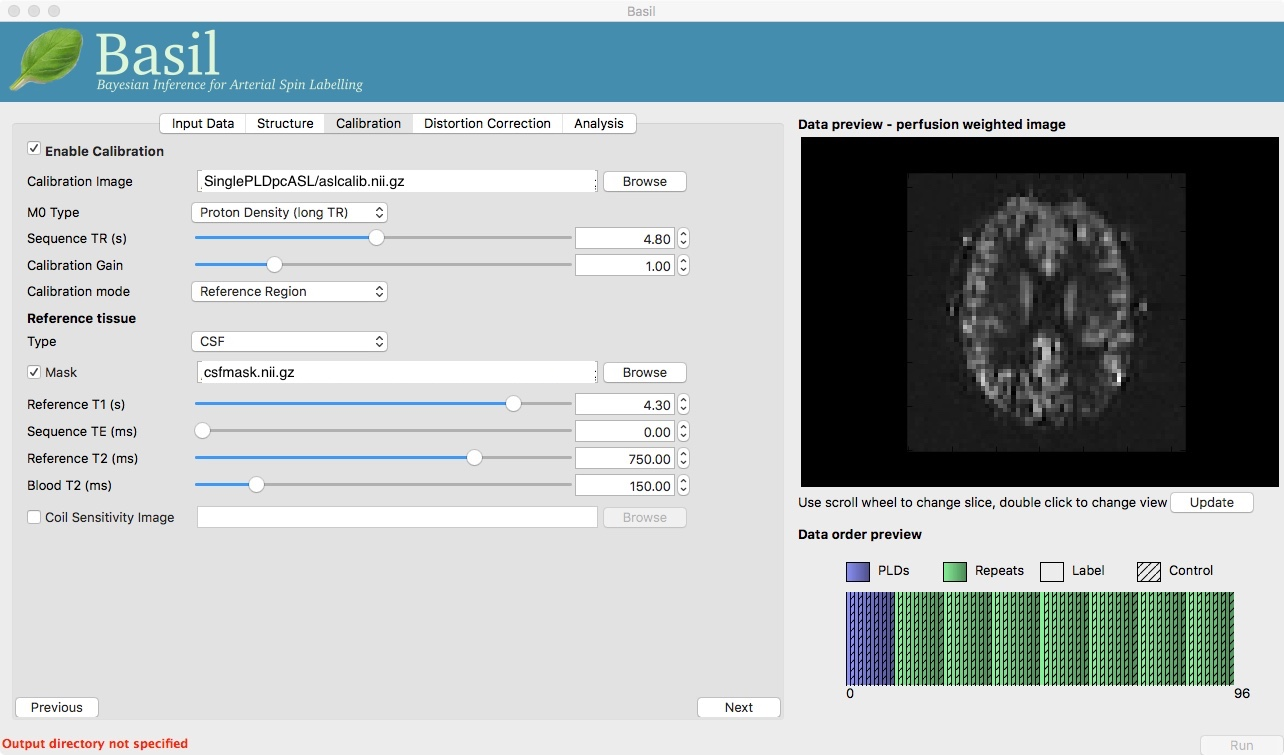
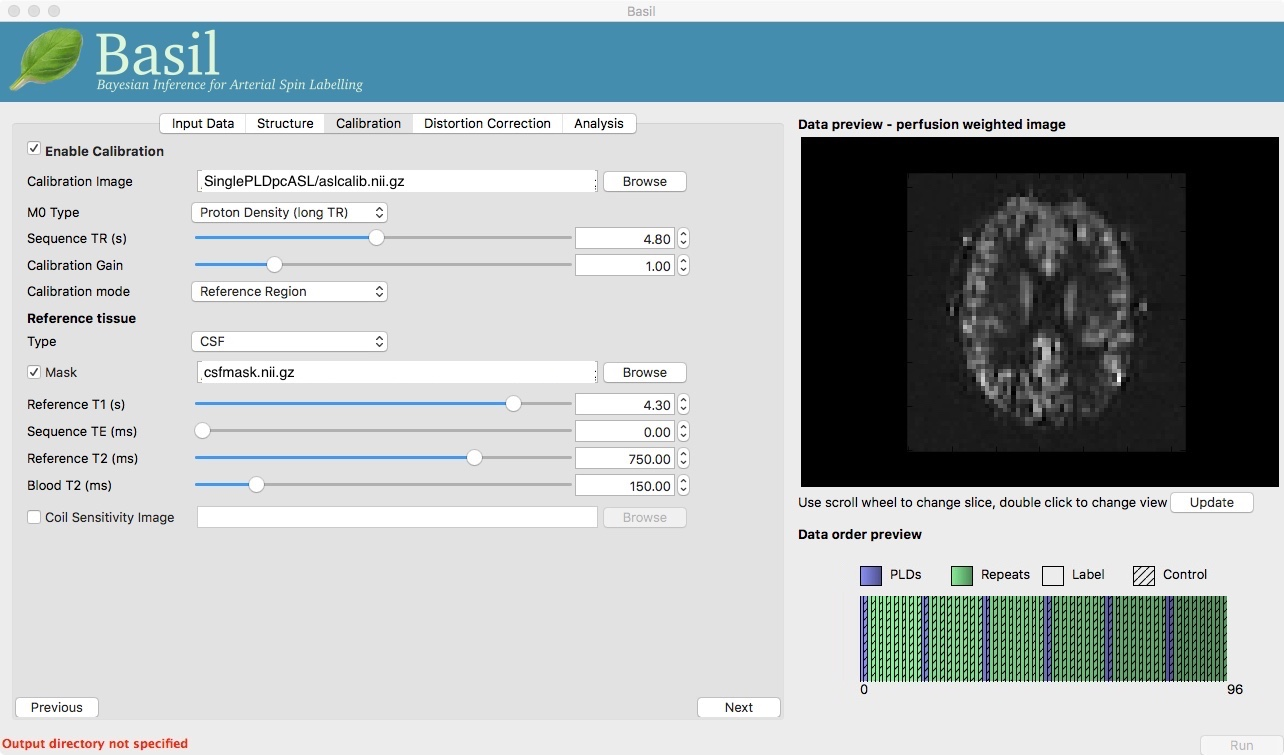
Adding in a new section on data ordering in multi-PLD ASL, revision of exercise 3 to make simply the handling of data orrdering.

Changed region(s): [[0.6542, 0.7311, 0.9657, 0.9139]]

diff --git a/index.html b/index.html
@@ -77,6 +77,10 @@ Multi-PLD pcASL</a></dt>
   <dd>Doing an even better job of perfusion quantification using
     multi-PLD pcASL and exploring other information that can be
     obtained with multi-PLD ASL.</dd>
+
+    <dt> <a href="#dataorder">4: Understanding data order for Multi-PLD
+      ASL</a></dt>
+      
 </dl>
 
 
@@ -542,38 +546,29 @@ ATT in its own right, as well as arterial blood volumes.</p>
 
   <img src="Input2.jpeg" alt="BASIL GUI Input Data" width=900>
 
-  <p>Note the 'Data order preview'. For mutli-PLD ASL it is important
+  <p>For mutli-PLD ASL it is important
   to get the data order specification right. In this case the default
-  options in the GUI are not correct. The PLDs do come as label-control
-  pairs, i.e. alternating label then control images. But, the default
-  assumption in the GUI is that a full set of the
+  options in the GUI are <b>not</b> correct. Specifically, although the PLDs do come as label-control
+  pairs, i.e. alternating label then control images, the default
+  assumption made by the GUI that a full set of the
   6 PLDs has been acquired first, then this has been repeated 8
-  subseqeunt times, this is indcated in the preview by colouring the
-  first instance of a PLD as purple and subsequent as green, with
-  different PLDs appearing as different shades of purple (or
-  green). This is quite commonly how multi-PLD ASL data is acquired,
-  but that might not be how the data is ordered in the final image
-  file.</p>
+  subseqeunt times isn't true for the data as provided. Instead the
+  data has been ordered with all of the measurements at the first PLD
+  grouped together first, then all of the second PLD, then the third
+  etc. To tell the GUI this we need to change the 'Grouping order':
+  leave the first option as it is ('Label/Control pairs'), but change
+  the second option to 'Repeats' (from 'PLDs'). You should notice that
+  the 'Data order preview' in the lower right hand corner will
+  change. This is a visual guide to help you check that BASIL is
+  intepreting the data in the way you think it should. You can learn
+  more about this in exercise 4.</p>
 
-  <p>As we noted earlier, in this data all of the measurements at the
-  same PLD are grouped together. You need to change the 'Grouping
-  order' on the 'Input Data' tab: leave the first option along
-  ('Label/Control pairs') and change the second option from 'PLDs' to
-  'Repeats'. Note that the data order preview changes to reflect the
-  different ordering. This is now correct: remeber that the purple
-  coloured entries indicate the first time that PLD was acquired.</p>
 
-  <p>Note that if you were to click 'Update' on the 'Data preview' nothing
+  <p>Note that if you were to click 'Update' again on the 'Data preview' nothing
   changes, the ordering doesn't affect the (simple) way in which we
   have calucated the PWI. Getting a plausible looking PWI is a good sign that the data
   order is correct, but it is not a guarantee that the PLD ordering is
-  correct, so always check carefully. One way to do this, in this
-  case, would be to open the data in <code>fsleyes</code> and look at
-  the timeseries: the raw intensity of both label and control images
-  for one PLD are different to those from another PLD (due to the
-  background suprresion). THe timeseries for the raw data looks like a
-  series of steps, indicating the repeated measurements from each PLD
-  are grouped together (groubed by 'repeats').</p>
+  correct, so always check carefully. </p>
 
 <list>Once we are happy with the PWI and data order, we can set the
 'Acquisition parameters':
@@ -676,6 +671,200 @@ estimated maps for the arterial component
 (<code>aCBV_calib.nii.gz</code> etc) are still present in the
 <code>pvcorr</code> directory. Since this is not tissue specific there
 are not separate gray and white matter versions of this parameter.</p>
+
+<hr/>
+
+<h2><a name="dataorder">Understanding data order for Multi-PLD
+ASL</a></h2>
+
+<p>In exercise 3 we noted that it is important to get the data
+ordering correct when you have multi-PLD data. This is becuase when it
+comes to model fitting BASIL needs to know which volumes correspond to
+which PLD, otherwise the quantification will be wrong.</p>
+
+<p>There are two essential things you need to know about your
+data:</p>
+<list>
+<li>Do the label and control images appear as pairs, i.e., the data
+goes label then control then label then control etc? This is how ASL
+data is conventionally aquired, so it is highly likely that this will
+be the case. You should also note whether it is label first (most
+common) or control first.</li>
+<li>Do you have multiple <b>repeats</b>, i.e., is there more than one
+measurement at each PLD. Is that is the case then are all of the volumes corresponding to an individual PLD grouped
+together, or do you get one group of measurement made at all of the
+PLDs, followed by another group, i.e., a <b>repeat</b> of the PLDs,
+then another group etc? The latter is the most common way to acquire
+multi-PLD data, but it is possible the data has been grouped
+differently before you get it (as was the case for the data in
+exercise 3).</li>
+</list>
+
+<p>The BASIL GUI provides a way to indicate the ordering in the data,
+'Grouping order',
+and a graphic to help you visualise what the options mean, 'Data order
+preview'.</p>
+
+<p>Starting with the simplest case: a single PLD repeated a number of
+times (i.e., exercise 1 and 2). The data order preview has a series of 60 boxes
+(30 pairs of label and control) corresponding to the 60 volumes in the
+data. These alternate between solid colour
+and cross-hatched. As the legend indicates a label image volume is
+shown solid and a control is cross-hatched, they alternate in the
+preview becuase the data comes in label control pairs.</p>
+
+<img src="Dataorder1.jpeg" alt="Data ordering with a single PLD">
+
+<p>You will also notice that the first two boxes are purple, the rest
+are green. The purple colour indicates the <b>first</b> occurence of a
+PLD in the series. As we only have a single PLD in this data it is the
+first two volumes that correspond to the label and control images for
+the first occurence of the PLD. The rest of the boxes are green
+because these represent <b>repeats</b> of the same PLD.</p>
+
+<p>Now lets understand what happens with multi-PLD data. As per the
+case in exercise 3, we have data with 6 different PLDs, each of which
+have been measured 8 times. The default options for the BASIL GUI look
+like this:</p>
+
+<p>You should be able to spot the alternating pairs of label and
+control images. We have a total of 96 boxes (corespding to the 96 volumes for this data).
+The first 12 are all purple indicating that these volumes contain the
+first occurence of each of the 6 different PLDs (as pairs of label and
+control). Note that the different PLD are shaded - the boxes get
+progrssively darker to remin you that these are different PLD. You
+will then spot that the next 12 boxes are green, these are the second
+occurence of the PLDs. Again the shading gets darker to show that each
+pair is a different PLD. In fact, all of the subsequent boxes are
+green to indicate repeated measurements, but the shading shows the
+pattern of PLDs in the data.</p>
+
+<img src="Dataorder2.jpeg" alt="Data ordering with mulitple PLD
+grouped by PLD">
+
+<p>As shown, we would call this data 'grouped by PLDs', i.e., a single
+group within the data contains occurences of all of the PLDs. This is
+recorded in the GUI by the 'Grouping order' options. Note that there
+are two of these, it is the second one that is set to 'PLDs' in this
+case. If the data were instead 'grouped by repeats', i.e., all of the
+measurements at a particular PLD appeared together in the series, you
+would change this option to 'Repeats' and the preview would now look
+like:</p>
+
+<img src="Dataorder3.jpeg" alt="Data ordering with mulitple PLD
+grouped by repeat">
+
+<p>Note that now the first 12 boxes are the lightest shade
+(correspinding to the first PLD) with the first two purple, the first
+occurence of the PLD, and the rest green, the repeats. The next 12
+follow the same pattern, but the shade is a bit darker - the second
+PLD. The enxt 12 are darker again - the third PLD - and so on.</p>
+
+<p>You might wonder why the first option to 'Grouping order' was
+'Label/Control pairs'. This is beause it is possible that the data
+hapens to have all of the label images grouped together separately
+from all of the control images. In this scenario, the data might be
+group first by either PLD or repeats, and then grouped into label and
+control. This is, fortunately, unusual, and thus you can generally
+leave this first option as it is.</p>
+
+<p>You may also wonder what you would do if your data had a different
+number of repeats at each PLD. That is fine, BASIL can handle that -
+but you will have to use the command line, the GUI doesn't currently
+support data like this!</p>
+
+<p>Now test your knoweldge of data ordering with the following
+scenarios</p>
+
+<div class="quiz_question">
+
+  <span class="question"> You have been given multi-PLD data with 5
+  PLDs. It was collected as label-control pairs and one measurement of
+  each PLD was acquired first, then the 5 measurements were repeated
+  another 5 times. Is the following BASIL setup correct?</span><br/>
+  <img src="DataorderQ1.jpeg" alt="Data ordering question 1"><br/>
+
+  <form>
+  <input id="option1" class="option" type="radio" name="answer"/<label>Yes</label>
+  <span id="option1" class="answer incorrect">Incorrect! The data has
+  a grouping order of PLDs, but it has been set as 'Repeats'. The
+  preview should show the first 10 boxes as purple, getting
+  progresively darker in shade</span><br/>
+
+  <input id="option2" class="option" type="radio" name="answer"/<label>No</label>
+  <span id="option2" class="answer correct">Correct! The data has
+  a grouping order of PLDs, but it has been set as 'Repeats'. The
+  preview should show the first 10 boxes as purple, getting
+  progresively darker in shade</span><br/>
+  </form>
+</div>
+
+<div class="quiz_question">
+
+  <span class="question"> What sort of ASL data do you have if the
+  (correctly set) data order preview looks like:</span><br/>
+  <img src="DataorderQ2.jpeg" alt="Data ordering question 1"><br/>
+
+  <form>
+  <input id="option1" class="option" type="radio"
+  name="answer"/<label>Single-PLD with 6 repeats</label>
+  <span id="option1" class="answer incorrect">Incorrect! That would
+  only give a total of 12 volumes and we have 96 in this case.</span><br/>
+
+  <input id="option2" class="option" type="radio"
+  name="answer"/<label>Multi-PLD with 6 PLD and 8 repeats, ordered by PLDs</label>
+  <span id="option2" class="answer incorrect">Incorrect! 6 PLD and 8
+  repeats would give 96 volumes which is consistent with the
+  preview. But, the first 16 boxes are purple, which implies 8
+  PLD. The shaded pattern repeats 6 times, which implies 6 sets of
+  repeats. The preview is showing data ordered by PLD (all of the
+  purple boxes are together).</span><br/>
+
+  <input id="option3" class="option" type="radio"
+  name="answer"/<label>Multi-PLD with 8 PLD and 6 repeats, ordered by PLDs</label>
+  <span id="option3" class="answer correct">Correct! 8 PLD and 6
+  repeats would give 96 volumes which is consistent with the
+  preview. The first 16 boxes are purple, which implies 8
+  PLD. The shaded pattern repeats 6 times, which implies 6 sets of
+  repeats. The preview is showing data ordered by PLD (all of the
+  purple boxes are together).</span><br/>
+
+  </form>
+</div>
+
+
+<div class="quiz_question">
+
+  <span class="question"> [Advanced] What sort of ASL data do you have if the
+  (correctly set) data order preview looks like:</span><br/>
+  <img src="DataorderQ3.jpeg" alt="Data ordering question 1"><br/>
+
+  <form>
+  <input id="option1" class="option" type="radio"
+  name="answer"/<label>Single-PLD with 30 repeats as label-control pairs</label>
+  <span id="option1" class="answer incorrect">Incorrect! There are only 2
+  purple boxes, so we can only have a single PLD here. All of the solid
+  boxes are toether, likewise the cross-hatched, this implies that
+  label and control are separate (all the label images come first).</span><br/>
+
+  <input id="option2" class="option" type="radio"
+  name="answer"/<label>Single-PLD with 30 repeats with the label
+  images grouped separately from the control images.</label>
+  <span id="option2" class="answer correct">Correct! There are only 2
+  purple boxes, so we can only have a single PLD here. All of the solid
+  boxes are toether, likewise the cross-hatched, this implies that
+  label and control are separate (all the label images come first).</span><br/>
+
+  <input id="option3" class="option" type="radio"
+  name="answer"/<label>Multi-PLD with 15 PLD each only measured once,
+  label and control images separate.</label>
+  <span id="option3" class="answer incorrect">Incorrect! There are only 2
+  purple boxes, so we can only have a single PLD here. All of the solid
+  boxes are toether, likewise the cross-hatched, this implies that
+  label and control are separate (all the label images come first).</span><br/>
+
+  </form>
+</div>
 
 <hr/>
 
